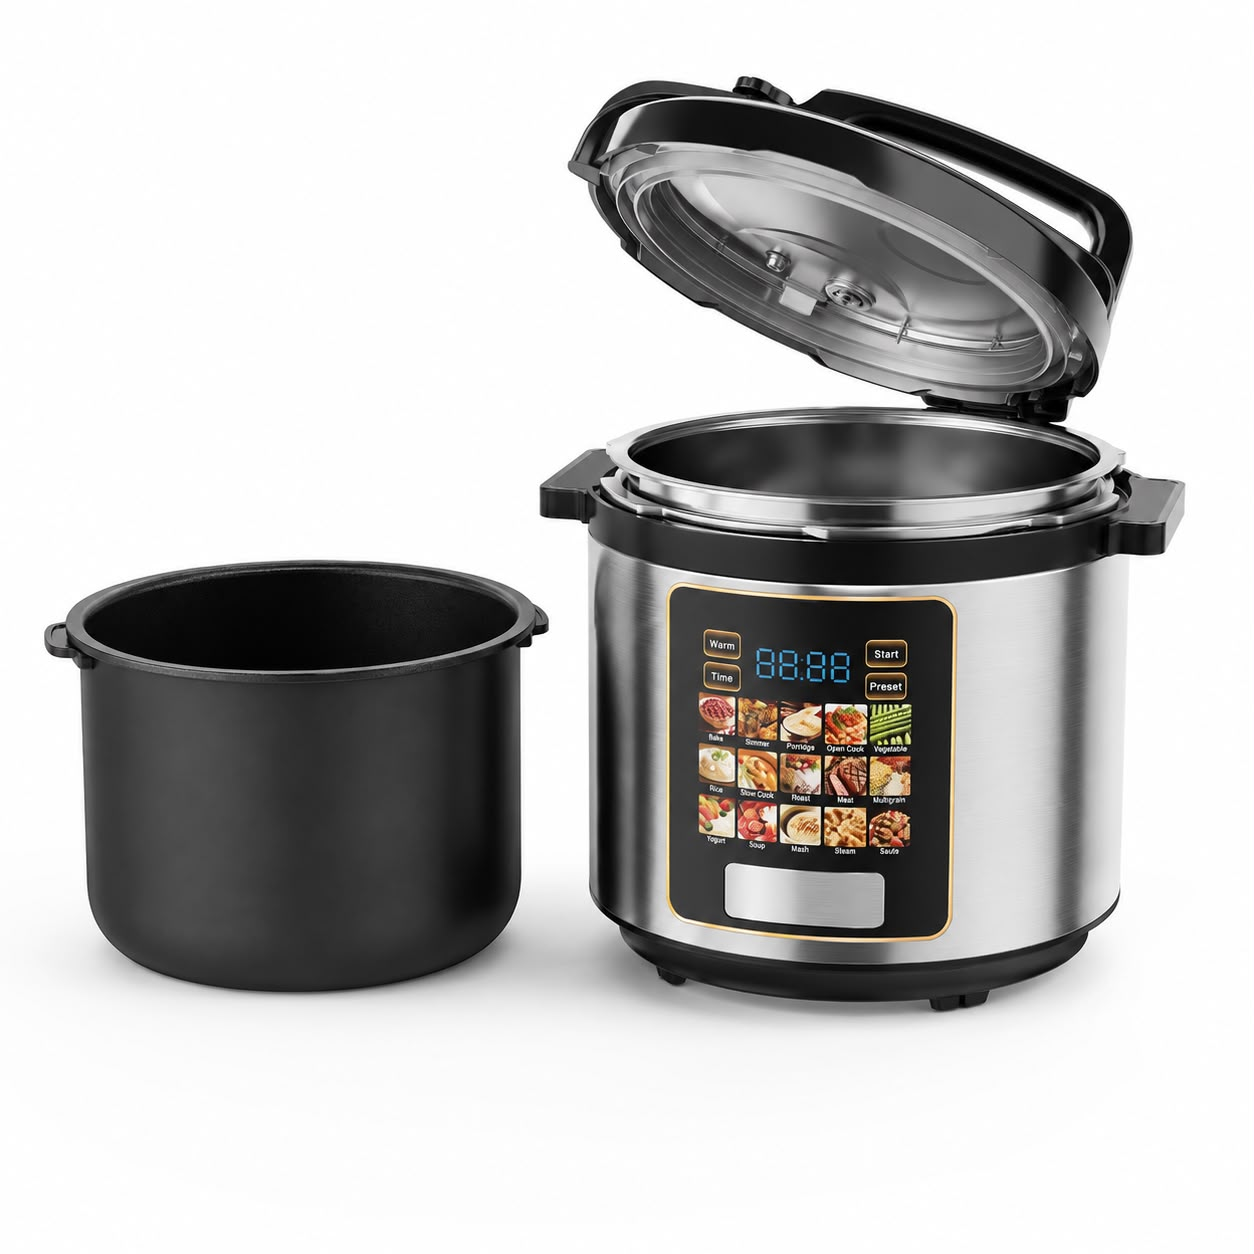
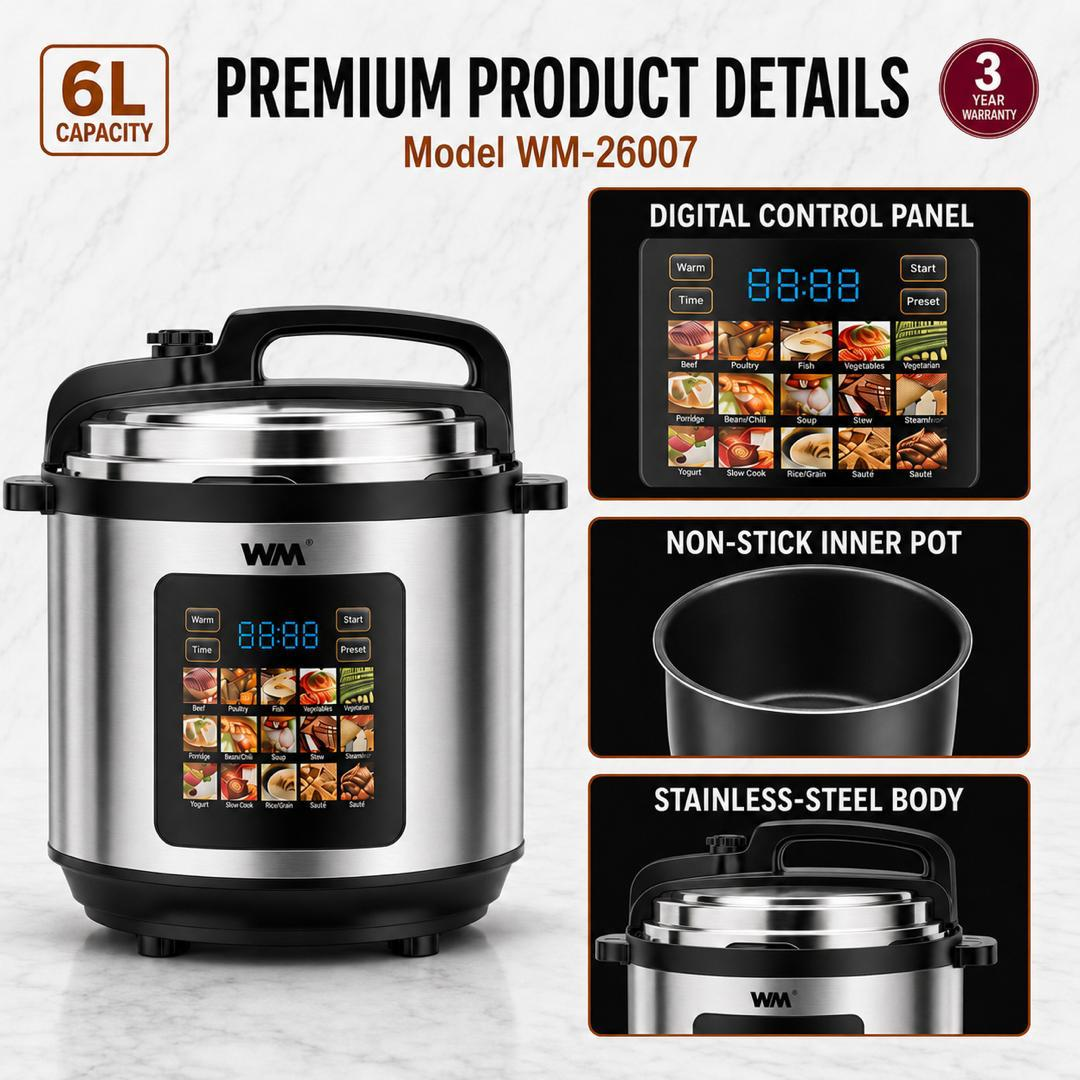
Add glass air fryer and 3-in-1 fan, refresh pressure cooker data
Two new products, both sourced from real photography and manufacturer
infographics (no fabricated specs):

- Freidora de Aire de Vidrio 4L (WM-26005): high-borosilicate glass
  chamber, 6 named preset programs, 360 surround + far-infrared heating,
  copper-toned accents, available in white and black.
- Ventilador Industrial 18" 3 en 1 (WM-26716): 100% pure copper motor,
  18" metal blades, converts between wall, pedestal and low-angle floor
  mounts using the same head.

Also replaced the pressure cooker's product photography with WM's newer
marketing set and filled in its previously-pending body material
(stainless steel) now that it's confirmed on the new packaging art.

Raw source photo folders for the two new products are added to
.gitignore, following the existing pattern — only the organized copies
under public/products/ are needed by the app.

diff --git a/src/data/products.ts b/src/data/products.ts
@@ -2,10 +2,10 @@ import type { Product, ProductImage } from '../types';
 import { isPending } from '../types';
 
 /**
- * The 6 WM products. All have real data (name, model, specs, images) sourced
- * from packaging or manufacturer copy — remaining `Pending` fields are
- * genuinely unconfirmed, never fabricated. See README "Datos pendientes"
- * for what's still missing per item.
+ * The WM products. All have real data (name, model, specs, images) sourced
+ * from packaging, product photography or manufacturer copy — remaining
+ * `Pending` fields are genuinely unconfirmed, never fabricated. See README
+ * "Datos pendientes" for what's still missing per item.
  */
 export const products: Product[] = [
   {
@@ -265,16 +265,16 @@ export const products: Product[] = [
     model: 'WM-26007',
     categorySlug: 'categoria-01',
     shortDescription: {
-      es: 'Olla eléctrica a presión multifunción WM® modelo WM-26007, con capacidad de 6 litros, recipiente interior antiadherente, pantalla digital y 15 menús ilustrados de cocción. Incorpora ajuste de tiempo, programas preestablecidos, función para mantener caliente y garantía de 3 años.',
-      en: 'WM® multifunction electric pressure cooker model WM-26007, with 6-liter capacity, non-stick inner pot, digital display and 15 illustrated cooking menus. Features a time setting, preset programs, keep-warm function and a 3-year warranty.',
+      es: 'Olla eléctrica a presión multifunción WM® modelo WM-26007, con capacidad de 6 litros, cuerpo de acero inoxidable, recipiente interior antiadherente, pantalla digital y 15 menús ilustrados de cocción. Incorpora ajuste de tiempo, programas preestablecidos, función para mantener caliente y garantía de 3 años.',
+      en: 'WM® multifunction electric pressure cooker model WM-26007, with 6-liter capacity, a stainless-steel body, non-stick inner pot, digital display and 15 illustrated cooking menus. Features a time setting, preset programs, keep-warm function and a 3-year warranty.',
     },
     seoTitle: {
       es: 'Olla eléctrica a presión WM® de 6 litros | Modelo WM-26007',
       en: 'WM® Electric Pressure Cooker, 6 Liters | Model WM-26007',
     },
     seoDescription: {
-      es: 'Olla eléctrica a presión multifunción WM® de 6 litros con recipiente antiadherente, pantalla digital, 15 menús de cocción y función para mantener caliente.',
-      en: 'WM® multifunction electric pressure cooker, 6 liters, with non-stick pot, digital display, 15 cooking menus and keep-warm function.',
+      es: 'Olla eléctrica a presión multifunción WM® de 6 litros con cuerpo de acero inoxidable, recipiente antiadherente, pantalla digital, 15 menús de cocción y función para mantener caliente.',
+      en: 'WM® multifunction electric pressure cooker, 6 liters, with a stainless-steel body, non-stick pot, digital display, 15 cooking menus and keep-warm function.',
     },
     benefits: [
       {
@@ -282,6 +282,13 @@ export const products: Product[] = [
         description: {
           es: 'Sus programas permiten preparar arroz, sopas, carnes, vegetales, granos y otras comidas sin utilizar diferentes electrodomésticos.',
           en: 'Its programs let you prepare rice, soups, meats, vegetables, grains and other dishes without using different appliances.',
+        },
+      },
+      {
+        title: { es: 'Cuerpo de acero inoxidable', en: 'Stainless-steel body' },
+        description: {
+          es: 'Resistente y fácil de limpiar, para un uso confiable día a día.',
+          en: 'Durable and easy to clean, for reliable everyday use.',
         },
       },
       {
@@ -340,14 +347,14 @@ export const products: Product[] = [
       { label: { es: 'Detalle del panel', en: 'Panel detail' }, value: { es: 'Borde con acabado dorado', en: 'Gold-finish trim' } },
       { label: { es: 'Voltaje', en: 'Voltage' }, value: { es: '110V, 60Hz', en: '110V, 60Hz' } },
       { label: { es: 'Potencia', en: 'Power' }, value: { pending: true } },
-      { label: { es: 'Material', en: 'Material' }, value: { pending: true } },
+      { label: { es: 'Material (cuerpo exterior)', en: 'Material (exterior body)' }, value: { es: 'Acero inoxidable', en: 'Stainless steel' } },
       { label: { es: 'Dimensiones', en: 'Dimensions' }, value: { pending: true } },
       { label: { es: 'Peso', en: 'Weight' }, value: { pending: true } },
     ],
     safetyAndQuality: [
       {
-        es: 'Diseñada con recipiente interior antiadherente y removible, tapa integrada y controles digitales que permiten un manejo claro y preciso.',
-        en: 'Designed with a removable non-stick inner pot, integrated lid and digital controls for clear, precise handling.',
+        es: 'Cuerpo exterior de acero inoxidable con recipiente interior antiadherente y removible, tapa integrada y controles digitales que permiten un manejo claro y preciso.',
+        en: 'Stainless-steel exterior body with a removable non-stick inner pot, integrated lid and digital controls for clear, precise handling.',
       },
       {
         es: 'Su construcción está orientada a ofrecer estabilidad, facilidad de limpieza y un funcionamiento confiable.',
@@ -363,39 +370,32 @@ export const products: Product[] = [
       },
     ],
     mainImage: {
-      src: '/products/olla-presion-multifuncion-6l/gallery-2.jpg',
+      src: '/products/olla-presion-multifuncion-6l/main.jpg',
       alt: {
-        es: 'Olla de presión multifunción WM con tapa abierta y olla interior removible',
-        en: 'WM multifunction pressure cooker with open lid and removable inner pot',
+        es: 'Olla de presión multifunción WM en uso, en una cocina con platos de arroz, sopa y carne',
+        en: 'WM multifunction pressure cooker in use, in a kitchen with rice, soup and meat dishes',
       },
     },
     gallery: [
       {
-        src: '/products/olla-presion-multifuncion-6l/main.jpg',
+        src: '/products/olla-presion-multifuncion-6l/gallery-1.jpg',
         alt: {
-          es: 'Olla de presión multifunción WM con empaque',
-          en: 'WM multifunction pressure cooker with packaging',
+          es: 'Olla de presión multifunción WM, modelo WM-26007, con capacidad de 6L y panel de control digital',
+          en: 'WM multifunction pressure cooker, model WM-26007, with 6L capacity and digital control panel',
         },
       },
       {
-        src: '/products/olla-presion-multifuncion-6l/gallery-1.jpg',
+        src: '/products/olla-presion-multifuncion-6l/gallery-2.jpg',
         alt: {
-          es: 'Características de la olla de presión multifunción WM: capacidad 6L, panel dorado, olla antiadherente, arroz-sopas-carnes',
-          en: 'Features of the WM multifunction pressure cooker: 6L capacity, gold panel, non-stick pot, rice-soup-meat',
+          es: 'Detalle del panel de control digital, la olla interior antiadherente y el cuerpo de acero inoxidable',
+          en: 'Detail of the digital control panel, the non-stick inner pot and the stainless-steel body',
         },
       },
       {
         src: '/products/olla-presion-multifuncion-6l/gallery-3.jpg',
         alt: {
-          es: 'Olla de presión multifunción WM en cocina con platos de arroz, sopa y carne',
-          en: 'WM multifunction pressure cooker in a kitchen with rice, soup and meat dishes',
-        },
-      },
-      {
-        src: '/products/olla-presion-multifuncion-6l/gallery-4.jpg',
-        alt: {
-          es: 'Olla de presión multifunción WM, vista frontal',
-          en: 'WM multifunction pressure cooker, front view',
+          es: 'Olla de presión multifunción WM con platos de arroz, sopa y carne preparados',
+          en: 'WM multifunction pressure cooker with prepared rice, soup and meat dishes',
         },
       },
     ],
@@ -725,6 +725,258 @@ export const products: Product[] = [
         alt: {
           es: 'Licuadora WM en uso preparando una salsa fresca',
           en: 'WM blender in use preparing a fresh sauce',
+        },
+      },
+    ],
+    manualUrl: { pending: true, note: 'Manual del producto pendiente de proporcionar.' },
+    specSheetUrl: { pending: true, note: 'Ficha técnica pendiente de proporcionar.' },
+    featured: true,
+  },
+  {
+    id: 'p07',
+    slug: 'freidora-de-aire-vidrio-4l',
+    name: { es: 'Freidora de Aire de Vidrio 4L', en: '4L Glass Air Fryer' },
+    model: 'WM-26005',
+    categorySlug: 'categoria-01',
+    shortDescription: {
+      es: 'Freidora de aire WM® de 4 litros, modelo WM-26005, con cámara de cocción de vidrio de alto borosilicato, panel de control táctil digital con pantalla de tiempo y temperatura, 6 programas preestablecidos y calentamiento envolvente 360° con infrarrojo lejano. Detalles en acabado cobre, disponible en blanco y negro, con garantía de 3 años.',
+      en: 'WM® 4-liter air fryer, model WM-26005, with a high-borosilicate glass cooking chamber, a digital touch control panel with a time and temperature display, 6 preset programs, and 360° surround far-infrared heating. Copper-toned accents, available in white and black, with a 3-year warranty.',
+    },
+    seoTitle: {
+      es: 'Freidora de Aire de Vidrio WM® de 4L | WM-26005',
+      en: 'WM® 4L Glass Air Fryer | WM-26005',
+    },
+    seoDescription: {
+      es: 'Freidora de aire WM® WM-26005 de 4 litros con cámara de vidrio de alto borosilicato, 6 programas preestablecidos, calentamiento envolvente 360° con infrarrojo lejano y detalles en cobre. Disponible en blanco y negro.',
+      en: 'WM® WM-26005 4-liter air fryer with a high-borosilicate glass chamber, 6 preset programs, 360° surround far-infrared heating and copper-toned accents. Available in white and black.',
+    },
+    benefits: [
+      {
+        title: { es: 'Cámara de vidrio de alto borosilicato', en: 'High-borosilicate glass chamber' },
+        description: {
+          es: 'Resistente al calor y pensada para uso diario; permite ver el proceso de cocción sin necesidad de abrir la canasta.',
+          en: 'Heat-resistant and built for everyday use; lets you watch the cooking process without opening the basket.',
+        },
+      },
+      {
+        title: { es: '6 programas preestablecidos', en: '6 preset programs' },
+        description: {
+          es: 'Un toque para papas fritas, bistec, muslo de pollo, mariscos, pescado y tartaletas, con pantalla de tiempo y temperatura.',
+          en: 'One touch for French fries, steak, chicken drumstick, seafood, fish and egg tarts, with a time and temperature display.',
+        },
+      },
+      {
+        title: { es: 'Calentamiento envolvente 360° e infrarrojo lejano', en: '360° surround and far-infrared heating' },
+        description: {
+          es: 'Distribuye el calor de manera uniforme en toda la cámara, para un resultado dorado por fuera y jugoso por dentro, con menos aceite.',
+          en: 'Circulates heat evenly throughout the chamber, for results that are crispy outside and juicy inside, with less oil.',
+        },
+      },
+      {
+        title: { es: 'Capacidad de 4L', en: '4L capacity' },
+        description: {
+          es: 'Un tamaño compacto, pensado para porciones individuales o para dos personas.',
+          en: 'A compact size, suited for single or two-person portions.',
+        },
+      },
+      {
+        title: { es: 'Detalles en acabado cobre', en: 'Copper-toned accents' },
+        description: {
+          es: 'El asa y el anillo superior en tono cobre le dan un sello visual distintivo.',
+          en: 'The handle and top ring in a copper tone give it a distinctive visual signature.',
+        },
+      },
+      {
+        title: { es: 'Disponible en blanco y negro', en: 'Available in white and black' },
+        description: {
+          es: 'Dos acabados para combinar con distintos estilos de cocina.',
+          en: 'Two finishes to match different kitchen styles.',
+        },
+      },
+    ],
+    specifications: [
+      { label: { es: 'Tipo de producto', en: 'Product type' }, value: { es: 'Freidora de aire', en: 'Air fryer' } },
+      { label: { es: 'Capacidad', en: 'Capacity' }, value: { es: '4 litros', en: '4 liters' } },
+      { label: { es: 'Panel de control', en: 'Control panel' }, value: { es: 'Táctil digital, con pantalla de tiempo y temperatura', en: 'Digital touch, with time and temperature display' } },
+      {
+        label: { es: 'Programas preestablecidos (6)', en: 'Preset programs (6)' },
+        value: {
+          es: 'Papas fritas, bistec, muslo de pollo, mariscos, pescado y tartaletas',
+          en: 'French fries, steak, chicken drumstick, seafood, fish and egg tarts',
+        },
+      },
+      { label: { es: 'Sistema de calentamiento', en: 'Heating system' }, value: { es: 'Envolvente 360° con infrarrojo lejano', en: '360° surround with far-infrared technology' } },
+      { label: { es: 'Cámara de cocción', en: 'Cooking chamber' }, value: { es: 'Vidrio de alto borosilicato, diseño cilíndrico', en: 'High-borosilicate glass, cylindrical design' } },
+      { label: { es: 'Asa', en: 'Handle' }, value: { es: 'Acabado cobre', en: 'Copper-toned finish' } },
+      { label: { es: 'Color', en: 'Color' }, value: { es: 'Blanco o negro, con detalles en cobre', en: 'White or black, with copper-toned accents' } },
+      { label: { es: 'Voltaje', en: 'Voltage' }, value: { es: '110V, 60Hz', en: '110V, 60Hz' } },
+      { label: { es: 'Potencia', en: 'Power' }, value: { pending: true } },
+      { label: { es: 'Material (carcasa)', en: 'Material (housing)' }, value: { pending: true } },
+      { label: { es: 'Dimensiones', en: 'Dimensions' }, value: { pending: true } },
+      { label: { es: 'Peso', en: 'Weight' }, value: { pending: true } },
+    ],
+    safetyAndQuality: [
+      {
+        es: 'Su cámara de cocción es de vidrio de alto borosilicato, resistente al calor; aun así, manipúlela con cuidado para evitar golpes o caídas.',
+        en: 'Its cooking chamber is made of heat-resistant high-borosilicate glass; even so, handle it carefully to avoid impacts or drops.',
+      },
+      {
+        es: 'Cuenta con 3 años de garantía contra defectos de fabricación, conforme a sus términos y condiciones.',
+        en: 'Backed by a 3-year warranty against manufacturing defects, subject to its terms and conditions.',
+      },
+    ],
+    mainImage: {
+      src: '/products/freidora-de-aire-vidrio-4l/main.jpg',
+      alt: {
+        es: 'Freidora de aire de vidrio WM en uso, con papas fritas y vegetales',
+        en: 'WM glass air fryer in use, with fries and vegetables',
+      },
+    },
+    gallery: [
+      {
+        src: '/products/freidora-de-aire-vidrio-4l/gallery-1.jpg',
+        alt: {
+          es: 'Freidora de aire de vidrio WM en negro, con detalles en cobre',
+          en: 'WM glass air fryer in black, with copper-toned accents',
+        },
+      },
+      {
+        src: '/products/freidora-de-aire-vidrio-4l/gallery-2.jpg',
+        alt: {
+          es: 'Freidora de aire de vidrio WM en blanco, con detalles en cobre',
+          en: 'WM glass air fryer in white, with copper-toned accents',
+        },
+      },
+      {
+        src: '/products/freidora-de-aire-vidrio-4l/gallery-3.jpg',
+        alt: {
+          es: 'Freidora de aire de vidrio WM en uso, preparando pollo y vegetales',
+          en: 'WM glass air fryer in use, cooking chicken and vegetables',
+        },
+      },
+    ],
+    manualUrl: { pending: true, note: 'Manual del producto pendiente de proporcionar.' },
+    specSheetUrl: { pending: true, note: 'Ficha técnica pendiente de proporcionar.' },
+    featured: true,
+  },
+  {
+    id: 'p08',
+    slug: 'ventilador-industrial-3-en-1',
+    name: { es: 'Ventilador Industrial 18" 3 en 1', en: '18" 3-in-1 Industrial Fan' },
+    model: 'WM-26716',
+    categorySlug: 'categoria-01',
+    shortDescription: {
+      es: 'Ventilador WM® de 18 pulgadas, modelo WM-26716, con motor 100% de cobre puro y 3 formas de uso: el mismo cabezal se monta en pared, en base de pie con altura ajustable, o en soporte de piso de ángulo bajo. Aspas metálicas en tono azul y rejilla de protección negra, con garantía de 3 años.',
+      en: 'WM® 18-inch fan, model WM-26716, with a 100% pure copper motor and 3 ways to use it: the same head mounts on a wall, on a height-adjustable stand base, or on a low-angle floor stand. Metal blades in a blue tone and a black protective grille, with a 3-year warranty.',
+    },
+    seoTitle: {
+      es: 'Ventilador Industrial WM® 18" 3 en 1 | WM-26716',
+      en: 'WM® 18" 3-in-1 Industrial Fan | WM-26716',
+    },
+    seoDescription: {
+      es: 'Ventilador WM® WM-26716 de 18 pulgadas con motor 100% de cobre puro. Se monta en pared, en base de pie con altura ajustable o en soporte de piso de ángulo bajo.',
+      en: 'WM® WM-26716 18-inch fan with a 100% pure copper motor. Wall-mountable, height-adjustable stand base, or low-angle floor stand.',
+    },
+    benefits: [
+      {
+        title: { es: 'Motor 100% de cobre puro', en: '100% pure copper motor' },
+        description: {
+          es: 'Ofrece un desempeño confiable y una mayor durabilidad.',
+          en: 'Delivers reliable performance and greater durability.',
+        },
+      },
+      {
+        title: { es: '3 formas de uso', en: '3 ways to use it' },
+        description: {
+          es: 'El mismo cabezal se instala en pared, sobre una base de pie o en un soporte de piso de ángulo bajo, según lo que necesites.',
+          en: 'The same fan head mounts on a wall, on a stand base, or on a low-angle floor stand, depending on what you need.',
+        },
+      },
+      {
+        title: { es: 'Aspas metálicas de 18 pulgadas', en: '18-inch metal blades' },
+        description: {
+          es: '5 aspas de metal en tono azul, diseñadas para un movimiento de aire óptimo.',
+          en: '5 metal blades in a blue tone, engineered for optimal air movement.',
+        },
+      },
+      {
+        title: { es: 'Flujo de aire potente', en: 'Powerful airflow' },
+        description: {
+          es: 'Una brisa fuerte y constante para mayor comodidad.',
+          en: 'A strong, consistent breeze for maximum comfort.',
+        },
+      },
+      {
+        title: { es: 'Altura ajustable en modo de pie', en: 'Adjustable height in stand mode' },
+        description: {
+          es: 'El tubo telescópico permite subir o bajar el ventilador a la altura que prefieras.',
+          en: 'The telescoping pole lets you raise or lower the fan to the height you prefer.',
+        },
+      },
+      {
+        title: { es: 'Rejilla de protección resistente', en: 'Sturdy protective grille' },
+        description: {
+          es: 'La estructura metálica cubre las aspas en los tres modos de uso.',
+          en: 'The metal structure covers the blades in all three modes of use.',
+        },
+      },
+    ],
+    specifications: [
+      { label: { es: 'Tipo de producto', en: 'Product type' }, value: { es: 'Ventilador', en: 'Fan' } },
+      { label: { es: 'Configuración', en: 'Configuration' }, value: { es: '3 en 1: pared, pie y piso de ángulo bajo', en: '3-in-1: wall, stand and low-angle floor' } },
+      { label: { es: 'Motor', en: 'Motor' }, value: { es: '100% cobre puro', en: '100% pure copper' } },
+      { label: { es: 'Aspas', en: 'Blades' }, value: { es: '5, metálicas, en tono azul', en: '5, metal, in a blue tone' } },
+      { label: { es: 'Diámetro de aspas', en: 'Blade diameter' }, value: { es: '18 pulgadas (45,7 cm)', en: '18 inches (45.7 cm)' } },
+      { label: { es: 'Rejilla de protección', en: 'Protective grille' }, value: { es: 'Metálica, en negro', en: 'Metal, in black' } },
+      { label: { es: 'Altura (modo de pie)', en: 'Height (stand mode)' }, value: { es: 'Ajustable, tubo telescópico', en: 'Adjustable, telescoping pole' } },
+      { label: { es: 'Color', en: 'Color' }, value: { es: 'Negro con aspas azules', en: 'Black with blue blades' } },
+      { label: { es: 'Voltaje', en: 'Voltage' }, value: { es: '110V, 60Hz', en: '110V, 60Hz' } },
+      { label: { es: 'Potencia', en: 'Power' }, value: { pending: true } },
+      { label: { es: 'Material (base y carcasa)', en: 'Material (base and housing)' }, value: { pending: true } },
+      { label: { es: 'Dimensiones', en: 'Dimensions' }, value: { pending: true } },
+      { label: { es: 'Peso', en: 'Weight' }, value: { pending: true } },
+    ],
+    safetyAndQuality: [
+      {
+        es: 'Motor de bobinado 100% de cobre puro, seleccionado para ofrecer un desempeño estable y mayor durabilidad.',
+        en: 'A 100% pure copper-wound motor, selected to deliver stable performance and greater durability.',
+      },
+      {
+        es: 'Cuenta con rejilla de protección metálica sobre las aspas; manténgalo fuera del alcance de niños durante su funcionamiento.',
+        en: 'Features a metal protective grille over the blades; keep it out of children’s reach while running.',
+      },
+      {
+        es: 'Cuenta con 3 años de garantía contra defectos de fabricación, conforme a sus términos y condiciones.',
+        en: 'Backed by a 3-year warranty against manufacturing defects, subject to its terms and conditions.',
+      },
+    ],
+    mainImage: {
+      src: '/products/ventilador-industrial-3-en-1/main.jpg',
+      alt: {
+        es: 'Ventilador WM en uso, en modo de pie en una sala de estar',
+        en: 'WM fan in use, in stand mode in a living room',
+      },
+    },
+    gallery: [
+      {
+        src: '/products/ventilador-industrial-3-en-1/gallery-1.jpg',
+        alt: {
+          es: 'Ventilador WM en modo de pie, con aspas azules y base circular',
+          en: 'WM fan in stand mode, with blue blades and a round base',
+        },
+      },
+      {
+        src: '/products/ventilador-industrial-3-en-1/gallery-2.jpg',
+        alt: {
+          es: 'Ventilador WM en sus tres modos: pared, pie y piso de ángulo bajo',
+          en: 'WM fan in its three modes: wall, stand and low-angle floor',
+        },
+      },
+      {
+        src: '/products/ventilador-industrial-3-en-1/gallery-3.jpg',
+        alt: {
+          es: 'Ventilador WM en uso, en modo de piso de ángulo bajo en una oficina en casa',
+          en: 'WM fan in use, in low-angle floor mode in a home office',
         },
       },
     ],
